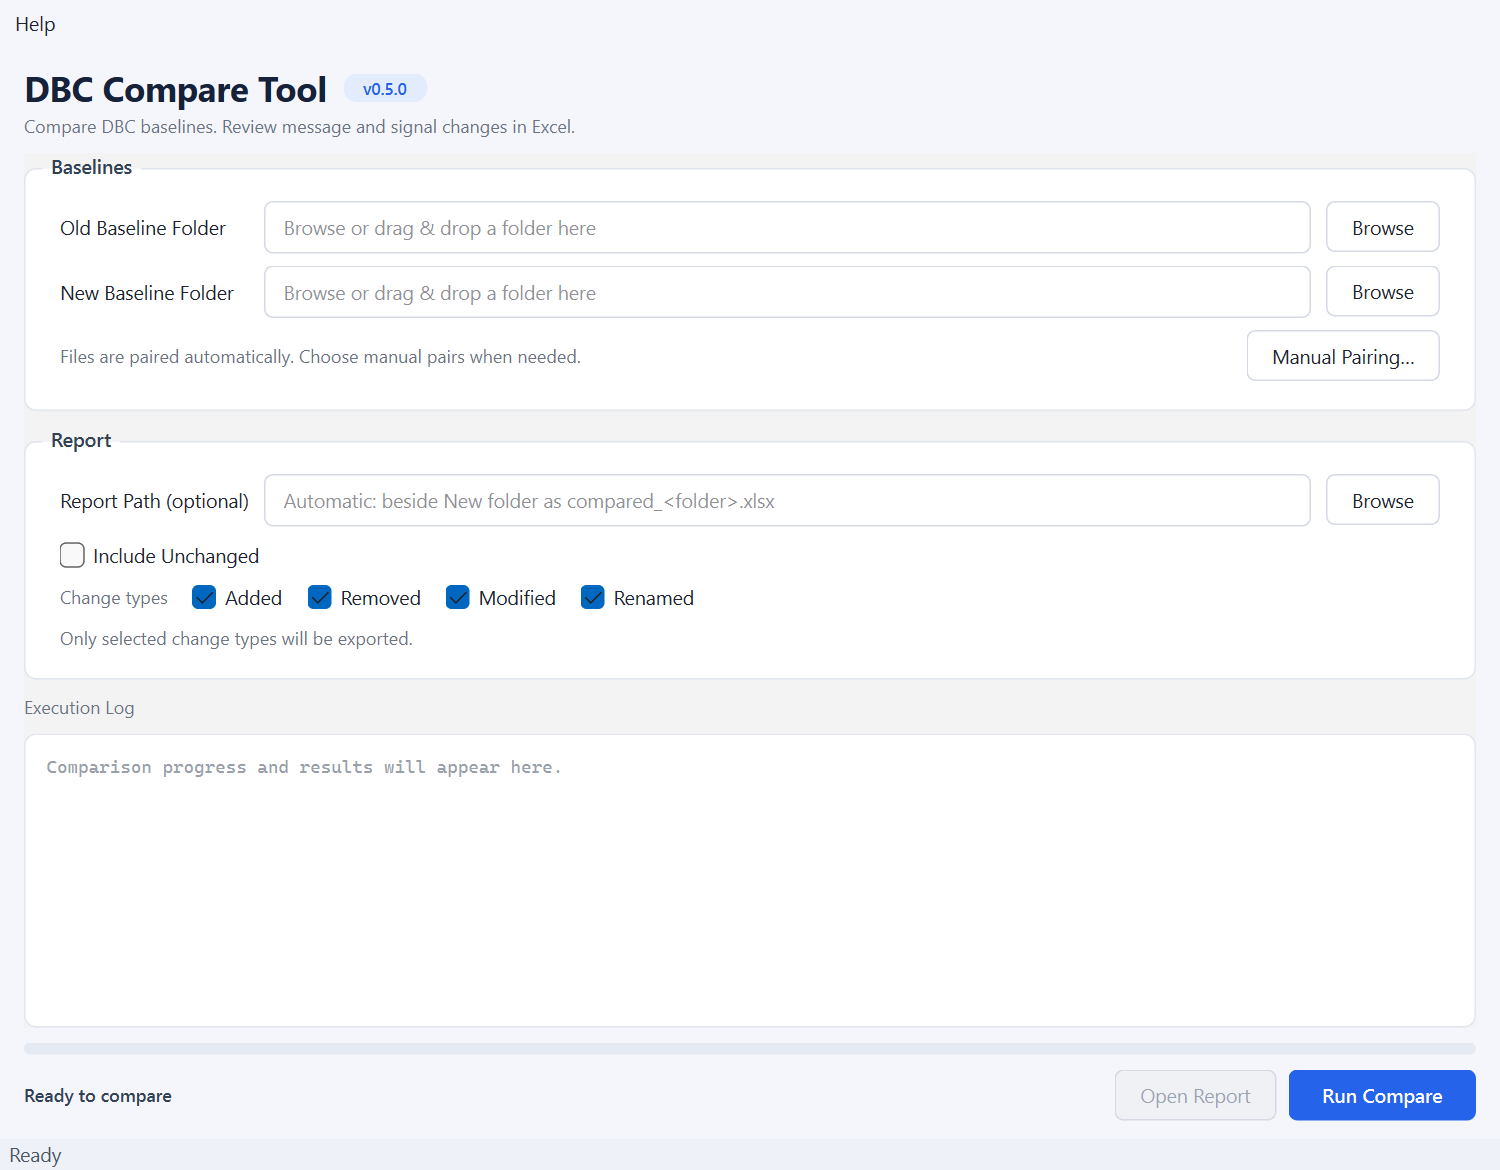
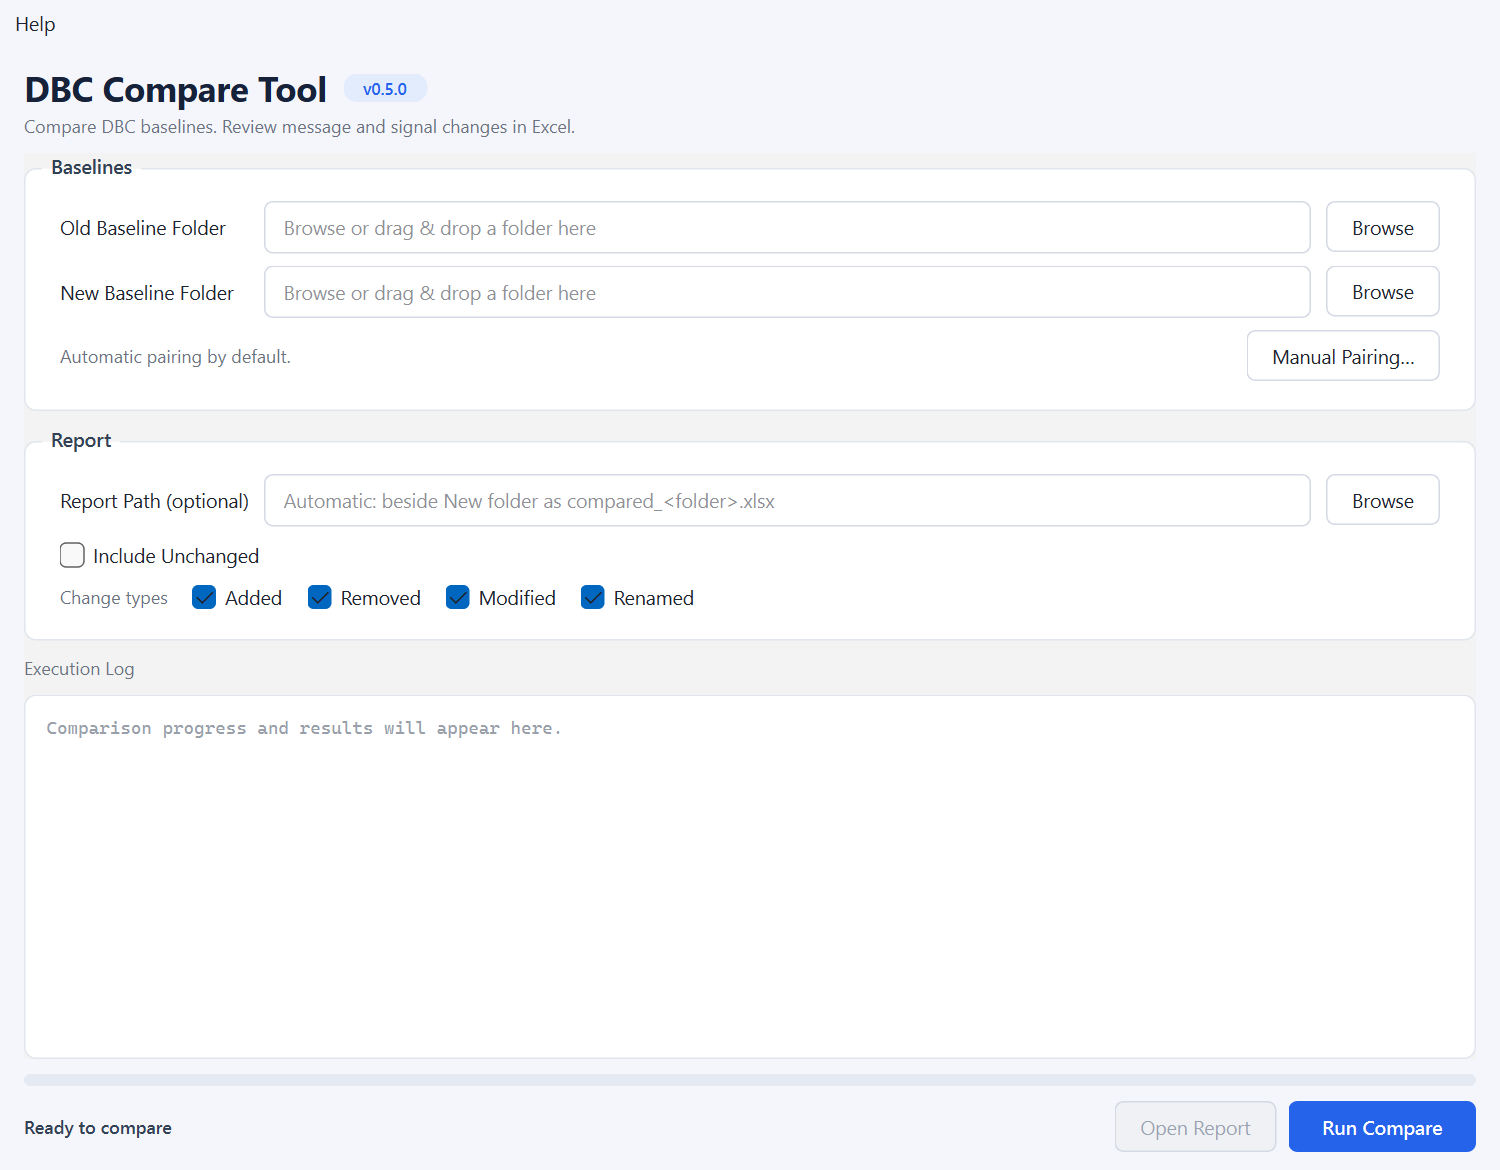
fix: remove duplicate GUI status and redundant hints

diff --git a/src/dbc_compare_tool/ui/main_window.py b/src/dbc_compare_tool/ui/main_window.py
@@ -2,7 +2,6 @@ from __future__ import annotations
 
 import os
 import sys
-from datetime import datetime
 from pathlib import Path
 
 from PySide6.QtCore import Qt, QSettings, QThread, Signal
@@ -550,7 +549,6 @@ class MainWindow(QMainWindow):
         self._build_layout()
         self._wire_events()
         self._restore_paths()
-        self.statusBar().showMessage("Ready")
 
     def _build_menu(self) -> None:
         help_menu = self.menuBar().addMenu("Help")
@@ -612,7 +610,7 @@ class MainWindow(QMainWindow):
         form.addWidget(new_button, 1, 2)
 
         pairing_row = QHBoxLayout()
-        pairing_hint = QLabel("Files are paired automatically. Choose manual pairs when needed.")
+        pairing_hint = QLabel("Automatic pairing by default.")
         pairing_hint.setObjectName("hintLabel")
         pairing_hint.setWordWrap(True)
         pairing_row.addWidget(pairing_hint, 1)
@@ -649,9 +647,10 @@ class MainWindow(QMainWindow):
             filter_layout.addWidget(chk)
         filter_layout.addStretch()
         report_form.addLayout(filter_layout, 2, 0, 1, 3)
-        self.report_hint = QLabel("Only selected change types will be exported.")
+        self.report_hint = QLabel("Change-type filters are ignored.")
         self.report_hint.setObjectName("hintLabel")
         self.report_hint.setWordWrap(True)
+        self.report_hint.setVisible(False)
         report_form.addWidget(self.report_hint, 3, 0, 1, 3)
 
         # Action buttons
@@ -877,11 +876,7 @@ class MainWindow(QMainWindow):
         enabled = self.run_button.isEnabled() and not self.chk_include_unchanged.isChecked()
         for chk in (self.chk_added, self.chk_removed, self.chk_modified, self.chk_renamed):
             chk.setEnabled(enabled)
-        self.report_hint.setText(
-            "All messages and signals will be exported. Change-type filters are ignored."
-            if self.chk_include_unchanged.isChecked()
-            else "Only selected change types will be exported."
-        )
+        self.report_hint.setVisible(self.chk_include_unchanged.isChecked())
 
     def _on_compared(self, result: ComparisonResult) -> None:
         if self._review_renames_this_run:
@@ -942,10 +937,6 @@ class MainWindow(QMainWindow):
         self._log(f"Report generated: {report_path}")
         self._log(f"Total changes: {summary['Total Changes']}")
         self._save_paths()
-        ts = datetime.now().strftime("%H:%M")
-        self.statusBar().showMessage(
-            f"Last run: {summary['Total Changes']} total changes  ·  {ts}"
-        )
 
     def _failed(self, message: str) -> None:
         self.progress.setRange(0, 1)
@@ -953,7 +944,6 @@ class MainWindow(QMainWindow):
         self._set_actions_enabled(True)
         self.run_status.setText("Comparison failed — see log")
         self._log(f"Failed: {message}")
-        self.statusBar().showMessage("Failed — see log for details")
         QMessageBox.critical(self, "Comparison Failed", message)
 
     def _open_report(self) -> None:

diff --git a/resources/help/user_guide.md b/resources/help/user_guide.md
@@ -9,7 +9,7 @@ The tool reports every change between two DBC baselines.
 3. **Report Path** — choose where to save the Excel report (`.xlsx`).
 4. **Include Change Types** — tick the change categories you want in the report (Added / Removed / Modified / Renamed). All are included by default.
    For a complete inventory, tick **Include Unchanged**. It includes every message and signal and disables the change-type filters.
-5. Click **Run Compare**. It uses the file pairs you saved in the **Manual Pairing** dialog when they cover every old file (see below); otherwise it matches files automatically. Progress appears in the Execution Log below, and the final result also shows in the status bar. When finished, click **Open Report** to view the result in Excel.
+5. Click **Run Compare**. It uses the file pairs you saved in the **Manual Pairing** dialog when they cover every old file (see below); otherwise it matches files automatically. Progress appears in the Execution Log. When finished, click **Open Report** to view the result in Excel.
 
 The tool remembers your last-used folders and report path, so the next session starts pre-filled.
 
